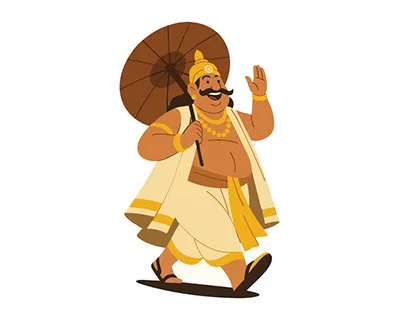
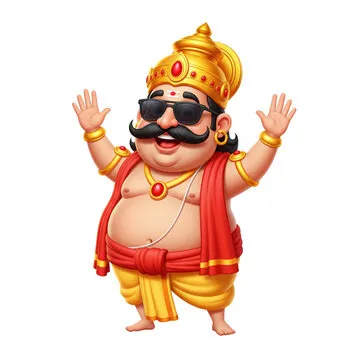
Fifth commit

diff --git a/src/components/Mahabali.jsx b/src/components/Mahabali.jsx
@@ -83,7 +83,7 @@ export default function Mahabali() {
 
         {/* Right Image */}
 
-        {/* <motion.div
+        <motion.div
           initial={{ opacity: 0, x: 80 }}
           whileInView={{ opacity: 1, x: 0 }}
           viewport={{ once: true }}
@@ -94,9 +94,9 @@ export default function Mahabali() {
             alt="King Mahabali"
             className="w-full rounded-[40px] shadow-2xl hover:scale-105 duration-500"
           />
-        </motion.div> */}
+        </motion.div>
 
-        <MahabaliViewer />
+        {/* <MahabaliViewer /> */}
       </div>
     </section>
   );
